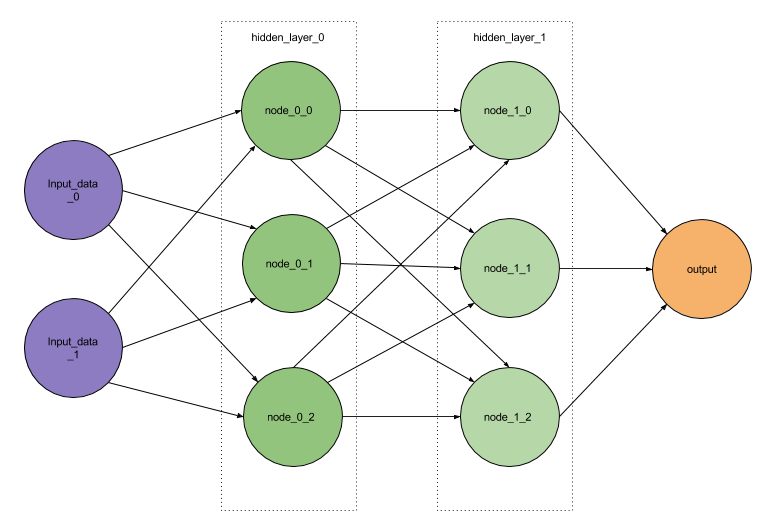
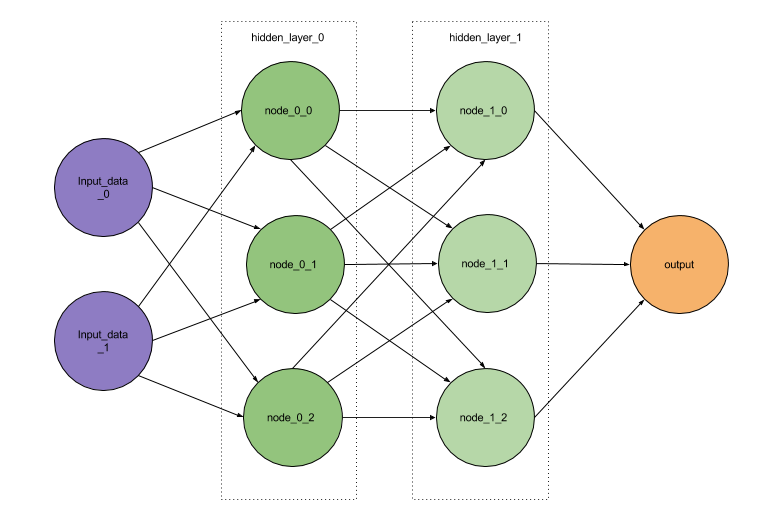
new images and update README

diff --git a/README.md b/README.md
@@ -1,51 +1,32 @@
-# Basics of neural network
+# Introduction
+Before we dive into neural networks, let's have a broader perspective.
 
-![A simple neural network](/images/simple_nn.png)
+## AI vs ML vs DL
+**Artificial Intelligence** is about simulation of human intelligence by machines to perform task thats required human intelligence. **Machine Learning** is a branch of AI that instead of based on human coded rules, machine perform tasks by learning itself based on massive data that being feed into it. **Deep Learning** is a way of machine learning that added with hidden layers of nodes in between input and output data, that are able to tweak and adjust to produce optimum result.
 
+![AI vs ML vs DL](/images/chart01.png)
 
- input_data | weights | hidden_0_input | hidden_layer_0 | hidden_0_output
-:----------:|:-------:|:--------------:|:--------------:|:--------------:
-  1  | 2 | 2 | *node_0_0* | 8
-  2  | 3 | 6 | *node_0_0* | 8
-  1  | 1 | 1 | *node_0_1* | 3
-  2  | 1 | 2 | *node_0_1* | 3
-  1  | 1 | 1 | *node_0_2* | 1
-  2  | 0 | 0 | *node_0_2* | 1
+## What is a neural network?
+An **Artificial Neural Network** is about mimicking the way human's brain works, by transmitting signals from nodes to nodes  These nodes are fully connected, with every node in one layer connected to every other node in next layer.
 
+We are going to touch on the simplest model, by passing the signals from front to back, called **feedforward**, to predict an output and later use a backwards process called **backpropagation** to learn by adjusting the nodes in order to achieve better accuracy.
 
- hidden_0_output | weights | hidden_1_input | hidden_layer_1 | hidden_1_output  
-:---------------:|:-------:|:--------------:|:--------------:|:--------------:
-  8 | 1 | 8 | *node_1_0* | 5  
-  3 | -1 | -3 | *node_1_0* | 5
-  1 | 0 | 0 | *node_1_0* | 5
-  8 | 0 | 0 | *node_1_1* | 2
-  3 | 1 | 3 | *node_1_1* | 2
-  1 | -1 | -1 | *node_1_1* | 2
-  8 | -1 | -8 | *node_1_2* | 2
-  3 | 3 | 9 | *node_1_2* | 2
-  1 | 1 | 1 | *node_1_2* | 2
-
-
- hidden_1_output | weights | output
-:---------------:|:-------:|:-----:
-  5 | 2 | 10
-  2 | 1 | 2
-  2 | 1 | 2
-
-
- output |
-:------:|
- 14 |
-
-
-
-
-
+![Feedforward model](/images/feedforward.png)
 
 ## Components
-input units, hidden units, output units
+ * input nodes
+ * hidden nodes
+ * output nodes
+ * weights
 
-## Feedforward
+Every single neuron will go through a calculation process.
+  1. Input signals **multiply** with corresponding **weights**.
+  2. Outcome of the multiplication will be **summed** up. (Optional) *Bias* may or may not added to the sum.
+  3. Activation.
+
+![A neuron](/images/neuron.png)
+
+![A 'deeper' feedforward example](/images/simple_nn.png)
 
 ## Activation function
 
